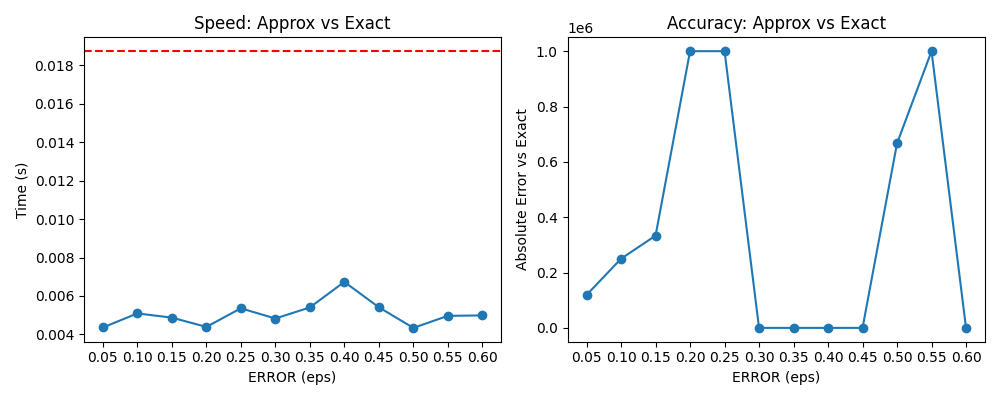
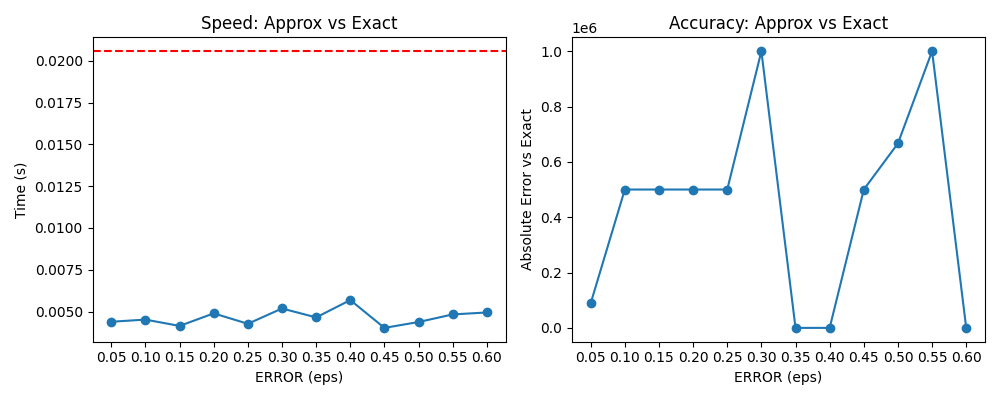
Updated README.md

diff --git a/script.py b/script.py
@@ -8,7 +8,7 @@ db = PSQL(dbname='postgres' ,
           host='127.0.0.1', 
           port='5432')
 
-sql = """SELECT APPROX pizza_type, COUNT(price) FROM pizza_orders GROUP BY pizza_type ERROR 0.05 PROB 0.95;"""
+sql = """SELECT APPROX pizza_type, AVG(price) FROM pizza_orders GROUP BY pizza_type ERROR 0.05 CONFIDENCE 0.95;"""
 res = execute_query(sql, db)
 print(res)
 db.close()

diff --git a/README.md b/README.md
@@ -5,6 +5,7 @@ with support for query parsing, approximate query extensions, and pretty-printed
 directly in the terminal.
 
 ## Table of Contents
+
 - [QQL - QuickQueryLanguage](#qql---quickquerylanguage)
   - [Table of Contents](#table-of-contents)
     - [Features](#features)
@@ -13,9 +14,8 @@ directly in the terminal.
     - [Usage](#usage)
     - [Documentations](#documentations)
   - [Benchmarks](#benchmarks)
-          - [Speed and accuracy trade-offs at different error thresholds](#speed-and-accuracy-trade-offs-at-different-error-thresholds)
+    - [Speed and accuracy trade-offs at different error thresholds](#speed-and-accuracy-trade-offs-at-different-error-thresholds)
     - [Examples](#examples)
-
 
 ### Features
 
@@ -28,7 +28,7 @@ directly in the terminal.
 
 ### Requirements
 
-- Python **3.12+******
+- Python **3.12+**
 - [uv](https://github.com/astral-sh/uv) package manager (recommended)
 - PostgreSQL server (local or remote)
 
@@ -61,14 +61,16 @@ uv run qql.py --host=localhost --port=5432
 
 ### Documentations
 
-| Keyword    | Where used                      | Meaning |
-| ---------- | ------------------------------- | ------- |
-| `APPROX` | Immediately before an aggregate |Request an offline approximate execution path (fast, uses synopses if available).|
-|`ERROR <value>`|With aggregate / query|Target maximum relative error (e.g. 0.05 for 5%). Triggers online planning if used with CONFIDENCE|
-|`CONFIDENCE <value>`|With aggregate / query|Target probability that the relative error is ≤ ERROR (e.g. 0.95 = 95%).| 
+| Keyword                | Where used                      | Meaning                                                                                            |
+| ---------------------- | ------------------------------- | -------------------------------------------------------------------------------------------------- |
+| `APPROX`             | Immediately before an aggregate | Request an offline approximate execution path (fast, uses synopses if available).                  |
+| `ERROR <value>`      | With aggregate / query          | Target maximum relative error (e.g. 0.05 for 5%). Triggers online planning if used with CONFIDENCE |
+| `CONFIDENCE <value>` | With aggregate / query          | Target probability that the relative error is ≤ ERROR (e.g. 0.95 = 95%).                          |
 
 > ⚠ **Important:** queries that use `DISTINCT` (including `COUNT(DISTINCT ...)`) will **always run exactly** in QQL by default. QQL will *not* apply approximate execution to `DISTINCT` results
+
 ---
+
 ## Benchmarks
 
 ###### Speed and accuracy trade-offs at different error thresholds
@@ -89,5 +91,15 @@ uv run qql.py --host=localhost --port=5432
 Run a simple query:
 
 ```sql
-qql> SELECT pizza_type, COUNT(*) FROM pizza_orders GROUP BY pizza_type;
+qql> SELECT pizza_type, COUNT(price) FROM pizza_orders GROUP BY pizza_type;
 ```
+
+---
+
+### Limitations
+
+- **`DISTINCT`**: Queries with `DISTINCT` (including `COUNT(DISTINCT ...)` ) are not approximated and will fall back to exact execution.
+- **`LIMIT` and `OFFSET` Behavior**: When `APPROX` is used with `LIMIT` or `OFFSET`, these clauses are ignored during the planning and execution of the approximate query. The approximation is performed on the entire table, which may produce unexpected results.
+- **Single-Table Operations**: The current approximate execution logic is primarily designed and tested for single-table queries. Joins are not officially supported and can lead to incorrect results.
+- **Performance Overhead**: For small tables or fast queries, the overhead of the AQP planning (pilot query + final query) can be higher than just running the exact query, especially if the database is remote (high network latency).
+- **No Offline Mode**: The offline, synopsis-based approximation feature has been removed. All approximate queries use the online, sampling-based approach.
